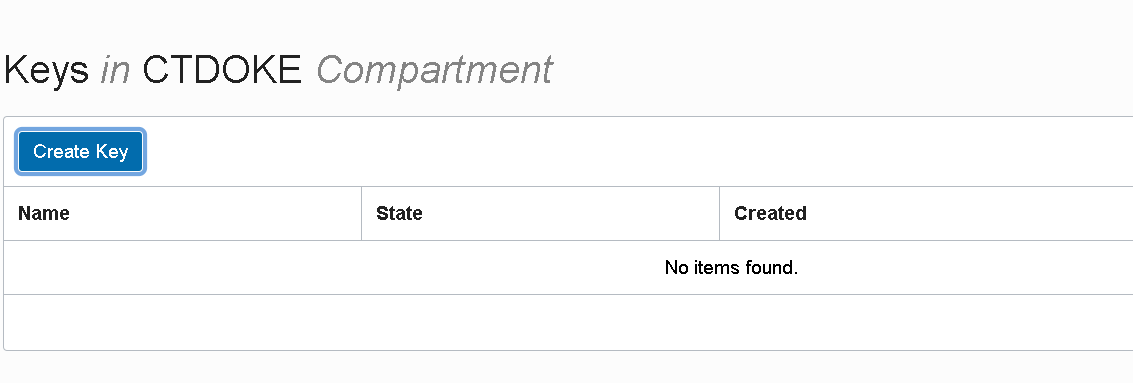
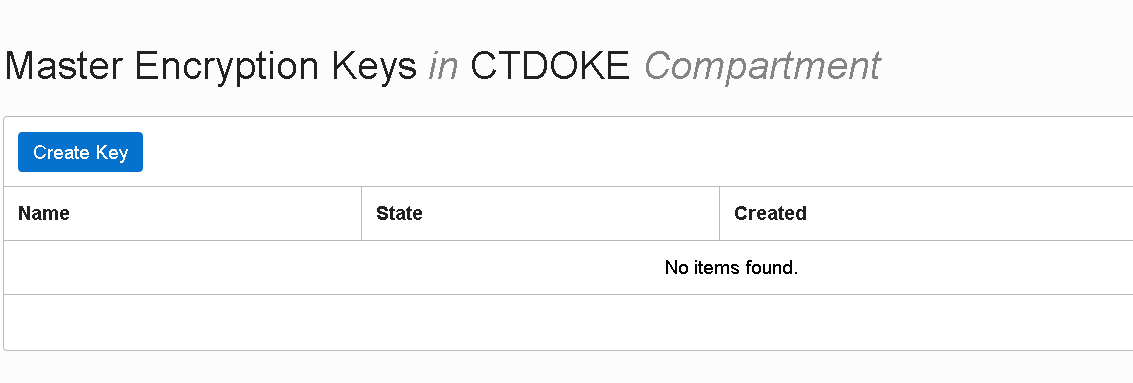
Change to OCI Secret for WebLogic Admin password

Changed region(s): [[0.0, 0.1149, 0.7723, 0.2298], [0.0, 0.3159, 0.1545, 0.4595]]

diff --git a/AppDev/wls/wlscnonjrfprereq.md b/AppDev/wls/wlscnonjrfprereq.md
@@ -1,9 +1,9 @@
-# WebLogic Cloud - non JRF
+# WebLogic for OCI - non JRF
 
 ## prerequisites
 
 
-If you want go through the Hands on Lab (*non JRF type of WebLogic Cloud Instance - using Oracle Cloud Marketplace*) using your cloud environment, follow this guide to setup some prerequisites. If you will use the provided Cloud Test Drive environment, skip this Lab.
+If you want go through the Hands on Lab (*non JRF type of WebLogic for OCI Instance - using Oracle Cloud Marketplace*) using your cloud environment, follow this guide to setup some prerequisites. If you will use the provided Cloud Test Drive environment, skip this Lab.
 
 
 ### Step 1. Prepare OCI Compartment
@@ -22,13 +22,53 @@ The Compartment name is referred as **CTDOKE** in the Hands on Lab.
 
 
 
-### Step 2. Encrypt WebLogic Admin password
+##### Required root level policies for WebLogic for OCI
 
-When you provision WebLogic for you need to pass the WebLogic Admin password encrypted. An OCI Key is required for this.  
+You must be an Oracle Cloud Infrastructure <u>administrator</u>, or <u>be granted some root-level permissions</u>, in order to create domains with Oracle WebLogic Server for Oracle Cloud Infrastructure.
+
+When you create a domain, Oracle WebLogic Server for Oracle Cloud Infrastructure creates a dynamic group and root-level policies that allow the compute instances in the domain to:
+
+- Access keys and secrets in Oracle Cloud Infrastructure Vault
+- Access the database wallet if you're using Oracle Autonomous Transaction Processing (JRF-enabled domains)
 
 
 
-##### Create a Key Vault
+In case <u>you are not an OCI administrator</u> and you cannot create dynamic-groups or you cannot create policies at root compartment level, please contact your OCI administrator and request that one  of the groups your OCI user is part of to have the following grants in place:
+
+> Allow group MyGroup to manage dynamic-groups in tenancy
+> Allow group MyGroup to manage policies in tenancy
+> Allow group MyGroup to use tag-namespaces in tenancy
+
+
+
+##### Required compartment level policies for WebLogic for OCI
+
+If <u>you are not an Oracle Cloud Infrastructure administrator</u>, you must be given management access to resources in the compartment in which you want to create a domain.
+
+Your Oracle Cloud Infrastructure user must have management access for Marketplace applications, Resource Manager stacks and jobs, compute instances, and block storage volumes. If you want Oracle WebLogic Server for Oracle Cloud Infrastructure to create resources for a domain like networks and load balancers, you must also have management access for these resources.
+
+A policy that entitles your OCI user to have the minimum management access for your compartment, needs to have the following grants in place:
+
+> Allow group MyGroup to manage instance-family in compartment MyCompartment
+> Allow group MyGroup to manage virtual-network-family in compartment MyCompartment
+> Allow group MyGroup to manage volume-family in compartment MyCompartment
+> Allow group MyGroup to manage load-balancers in compartment MyCompartment
+> Allow group MyGroup to manage orm-family in compartment MyCompartment
+> Allow group MyGroup to manage app-catalog-listing in compartment MyCompartment
+> Allow group MyGroup to manage vaults in compartment MyCompartment
+> Allow group MyGroup to manage keys in compartment MyCompartment
+> Allow group MyGroup to manage secret-family in compartment MyCompartment
+> Allow group MyGroup to read metrics in compartment MyCompartment
+
+
+
+### Step 2. Create OCI Secret for WebLogic Admin password
+
+When you provision WebLogic for you need to pass the WebLogic Admin password. An OCI Secret is required for this.  
+
+
+
+##### Create a Security Vault
 
 Go to *Governance and Administration* > *Security* > *Key Management*:
 
@@ -36,7 +76,7 @@ Go to *Governance and Administration* > *Security* > *Key Management*:
 
 
 
-Create a new Shared Vault:
+Create a new Shared Vault (leave the *Make it a Virtual Private Vault* option unchecked):
 
 ![](images/wlscnonjrfwithenvprereq/image020.png)
 
@@ -48,13 +88,15 @@ The new Vault should be listed as Active:
 
 
 
-Take a look at the Vault Information and note the  **Cryptographic Endpoint**:
+Take a look at the Vault Information:
 
 ![](images/wlscnonjrfwithenvprereq/image035.png)
 
 
 
-Create an new Key:
+##### Create an Encryption Key
+
+Go to *Master Encryption Keys* submenu of the Vault Information page and create an new Key:
 
 ![](images/wlscnonjrfwithenvprereq/image040.png)
 
@@ -72,114 +114,35 @@ The new key should be listed as *Enabled*:
 
 
 
-Click on the key and note the key's **OCID**:
+##### Create an OCI Secret
 
-![](images/wlscnonjrfwithenvprereq/image056.png)
+Go to *Secrets* submenu of the Vault Information page and create an new Secret:
 
+![](images/wlscnonjrfwithenvprereq/image700.png)
 
 
-##### Encrypt WebLogic Admin password
 
-User OCI Cloud shell:
+Setup a name for the OCI Secret; choose previously created Encryption Key (**WLSKey**) in the *Encryption Key* dropdown. If you leave default value for *Secret Type Template* (**Plain-Text**), you have to enter the plain WebLogic Admin password in the *Secret Contents* aria. If you switch to **Base64** template, you need to provide the password pre-encoded in base64.
 
-![](images/wlscnonjrfwithenvprereq/image110.png)
+> The password must start with a letter, should be between 8 and 30 characters long, should contain at least one number, and, optionally, any number of the special characters ($ # _).
 
+![image-20200526091220470](images/wlscnonjrfwithenvprereq/image710.png)
 
 
-Shell appears in the bottom of the screen:
 
-![](images/wlscnonjrfwithenvprereq/image120.png)
+Shortly, the Secret should be listed as *Active*:
 
+![image-20200526091948283](images/wlscnonjrfwithenvprereq/image720.png)
 
 
-First, we need to encode the WebLogic Admin password in base64 format:
 
-![](images/wlscnonjrfwithenvprereq/image022.png)
+Click on the Secret name and take note of its **OCID**. We need to provide this value in the WebLogic for OCI Stack configuration form:
 
+![image-20200526092054260](images/wlscnonjrfwithenvprereq/image730.png)
 
 
-Command:
 
-> echo -n 'WebLogic Admin password' | base64
-
-
-
-Then, we'll use the Vault Key to encrypt the base64 encoded password:
-
-![](images/wlscnonjrfwithenvprereq/image124.png)
-
-
-
-Command:
-
-> oci kms crypto encrypt --key-id Key_OCID --endpoint Vault_Cryptographic_Endpoint --plaintext Base64_Encoded_Password
-
-
-
-The *ciphertext* value from the response represents the encrypted password. Use this value instead of the provided sample from the Hand on Lab given in **weblogic_password_encrypted.txt** text file.
-
-
-
-Use your Key OCID and Vault Cryptographic Endpoint values as the **Key Management Service Key Id**
-and **Key Management Service Cryptographic Endpoint** parameters instead of sample values mentioned in the Hands on Lab.
-
-
-
-### Step 3.  Create required policy for accessing the Vault Key
-
-##### Create a Dynamic Group
-
-We need to create a Dynamic Group that will group all instances in the compartment.
-
-Go to *Governance and Administration* -> *Identity* -> *Dynamic Groups*
-
-![](images/wlscnonjrfwithenvprereq/image560.png)
-
-
-
-Create a new Dynamic Group:
-
-![](images/wlscnonjrfwithenvprereq/image570.png)
-
-
-
-Give a meaningful name and description.
-
-For the matching rule use:
-
-> ALL {instance.compartment.id = 'your compartment ocid'}
-
-
-
-##### Create Policy for Dynamic Group
-
-We need to create a policy that will allow stack scripts to access the key vault and decrypt encrypted WebLogic Admin password.
-
-
-
-Go to *Governance and Administration* -> *Identity* -> *Policies*
-
-![](images/wlscnonjrfwithenvprereq/image580.png)
-
-
-
-![](images/wlscnonjrfwithenvprereq/image585.png)
-
-Create a new Policy:
-
-![](images/wlscnonjrfwithenvprereq/image590.png)
-
-Give a name and description.
-
-For the policy statement use:
-
-> Allow dynamic-group <dynamic group name> to use keys in compartment <compartment name>
-
-Specify Dynamic Group's name created earlier and your compartment name.
-
-
-
-### Step 4. Network Configuration
+### Step 3. Network Configuration
 
 The Hands on Lab guide uses an existing Virtual Cloud Network and pre-configured Subnets for the WebLogic compute nodes and for the Load Balancer.
 
@@ -205,7 +168,7 @@ Also for the Load Balancer:
 
 
 
-###  Step 5. Create ssh keys
+###  Step 4. Create ssh keys
 
 You need to generate a public and private ssh key pair. During provisioning using Marketplace, you have to specify the ssh public key that will be associated with each of the WebLogic VM nodes.
 
@@ -237,7 +200,7 @@ The public key filename is referred as **wls_ssh_public.key** in the Hands on La
 
 
 
-### Step 6. Load balancer SSL configuration
+### Step 5. Load balancer SSL configuration
 
 For security reasons it's a good practice - if not mandatory - to allow only secured traffic between clients and WebLogic Server applications. Therefore, after provisioning WebLogic for OCI by choosing to setup a Load Balancer, it's necessary to manually finish SSL configuration by adding a SSL certificate to the load balancer's listener.
 

diff --git a/AppDev/wls/wlscnonjrf.md b/AppDev/wls/wlscnonjrf.md
@@ -79,12 +79,21 @@ This Hands on Lab will go through the process of creating a non JRF type of WebL
 - Continue setting up:
 
   - **WebLogic Server Availability Domain**: choose one of the three ADs
+  
   - **WebLogic Server Node count**: *2* (we will create a WebLogic cluster with two nodes / managed servers)
+  
   - **Admin user name**: *weblogic*
-  - **Admin password**: enter the *encrypted* WebLogic Admin password;  see provided *weblogic_password_encrypted.txt* file; for obtaining this, a Virtual Vault Key was used for encrypting the base64 encoded password;
+  
+  - **Secrets OCID for WebLogic Server Admin Password**: 
+  
+    - if you are using the CTD (Cloud Test Drive) environment enter: 
+      - *ocid1.vaultsecret.oc1.eu-frankfurt-1.amaaaaaaqrgb7baabjve3m5xzqac5y7jeqwintdxsgmyxezuwjm35n3r55la*
+      - a bit of context: the WebLogic Server Admin Password it's stored in an OCI Vault as an OCI Secret (encrypted with an OCI Encryption Key); during WebLogic Domain creation, the provisioning scripts will setup the admin password by getting it from the OCI Secret instead of having it as a Terraform variable; in a similar way - if talking about an JRF enabled domains - the database admin password will be referred from an OCI Secret
+  
+    - if you are using your own environment and you have followed the *Prerequisites* lab, fill in the OCI Secret OCID that you have created at step *Create OCI Secret for WebLogic Admin password* > *Create OCI Secret*
 
 
-![](images/wlscnonjrfwithenv/image110.png)
+![image-20200526141855489](images/wlscnonjrfwithenv/image110.png)
 
 
 
@@ -119,23 +128,9 @@ This Hands on Lab will go through the process of creating a non JRF type of WebL
 
 
 
-- Leave Identity Cloud Service Integration as default (no integration) and *No Database* for **Database Strategy**
+- Finally, leave Identity Cloud Service Integration as default (no integration) and *No Database* for **Database Strategy**
 
 ![](images/wlscnonjrfwithenv/image150.png)
-
-
-
-- Finally, configure Key Management Service; previously we have provided a pre-encrypted password for WebLogic admin user; for the Stack scripts being able to decrypt it on the fly (without storing anywhere the password in plain text mode), they needs the Vault Key Id used for encryption and the Key Management Service Cryptographic Endpoint:
-
-  - **Key Management Service Key Id**: use existing (copy & paste in one line):
-
-  > ocid1.key.oc1.eu-frankfurt-1.bfoz5szoaafak.abtheljsw5qx4fxv3kzeqx6ih6obdtwi7434qbgeom5h3vzmyejtgakgswha
-
-  - **Key Management Service Cryptographic Endpoint**: https://bfoz5szoaafak-crypto.kms.eu-frankfurt-1.oraclecloud.com
-
-- Click **Next**
-
-![](images/wlscnonjrfwithenv/image160.png)
 
 
 

diff --git a/AppDev/wls/README.md b/AppDev/wls/README.md
@@ -10,7 +10,7 @@ This folder contains a series of labs for running WebLogic on the Oracle Cloud, 
 
 ## WebLogic Labs
 
-+ [WebLogic Cloud - VM Image via Marketplace](https://oracle.github.io/cloudtestdrive/AppDev/wls/?page=wlscnonjrf.md) 
++ [WebLogic for OCI - VM Image via Marketplace](https://oracle.github.io/cloudtestdrive/AppDev/wls/?page=wlscnonjrf.md) 
   Launch WebLogic on OCI Virtual machines, using the pre-configured image provided by Oracle in the Marketplace
 
 + [Running WebLogic on Docker](https://oracle.github.io/cloudtestdrive/AppDev/wls/?page=WLS_on_Docker.md)
